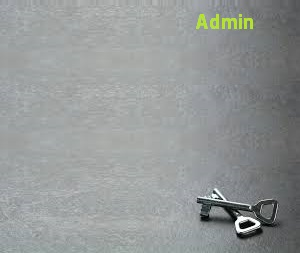
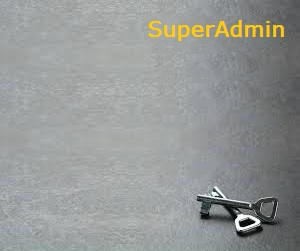
login backgrounds and login button name
and login button name

Changed region(s): [[0.48, 0.0558, 0.96, 0.1673], [0.66, 0.753, 0.87, 0.9203], [0.87, 0.7809, 0.9, 0.8088]]

diff --git a/application/views/nonmember/templates/header.php b/application/views/nonmember/templates/header.php
@@ -21,7 +21,7 @@
 						
 						</button>
                         <button type="button" class="btn btn-primary custom-col" onclick="window.location.href='<?php echo base_url() ?>user/manager_login'">
-							 <span class="glyphicon glyphicon-hand-right"> </span>	Manager LogIn
+							 <span class="glyphicon glyphicon-hand-right"> </span>	Admin LogIn
 						
 						</button>
                         <button type="button" class="btn btn-primary custom-col" onclick="window.location.href='<?php echo base_url() ?>user/admin_signup'">

diff --git a/application/views/salesman/login.php b/application/views/salesman/login.php
@@ -26,7 +26,7 @@
 <div class="container">
     <div class="row">
         <div class="col-md-4"></div>
-        <div class ="col-md-4 col-md-offset-4 boxshad">
+        <div class ="col-md-4 col-md-offset-4 boxshad" style="background-image:url(<?php echo base_url(); ?>/assets/images/loginBGsales.jpg);background-repeat:no-repeat;background-size: 100% 100%;">
             <div class =" row">
                 <div class ="col-md-12">
                     <h1><?php echo lang('login_heading'); ?></h1>
